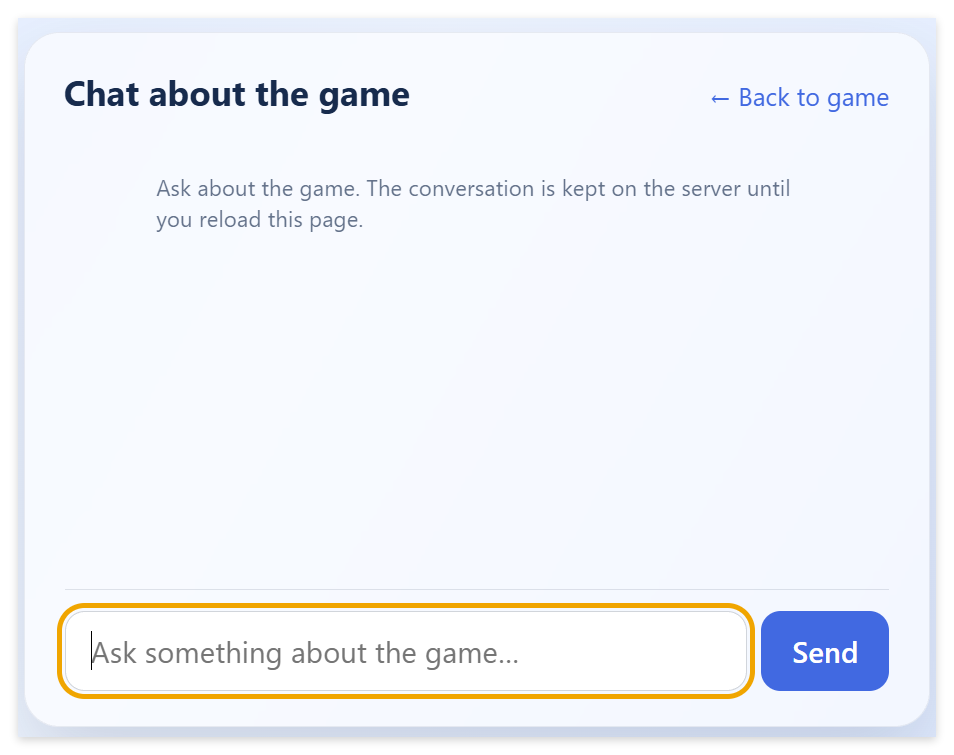
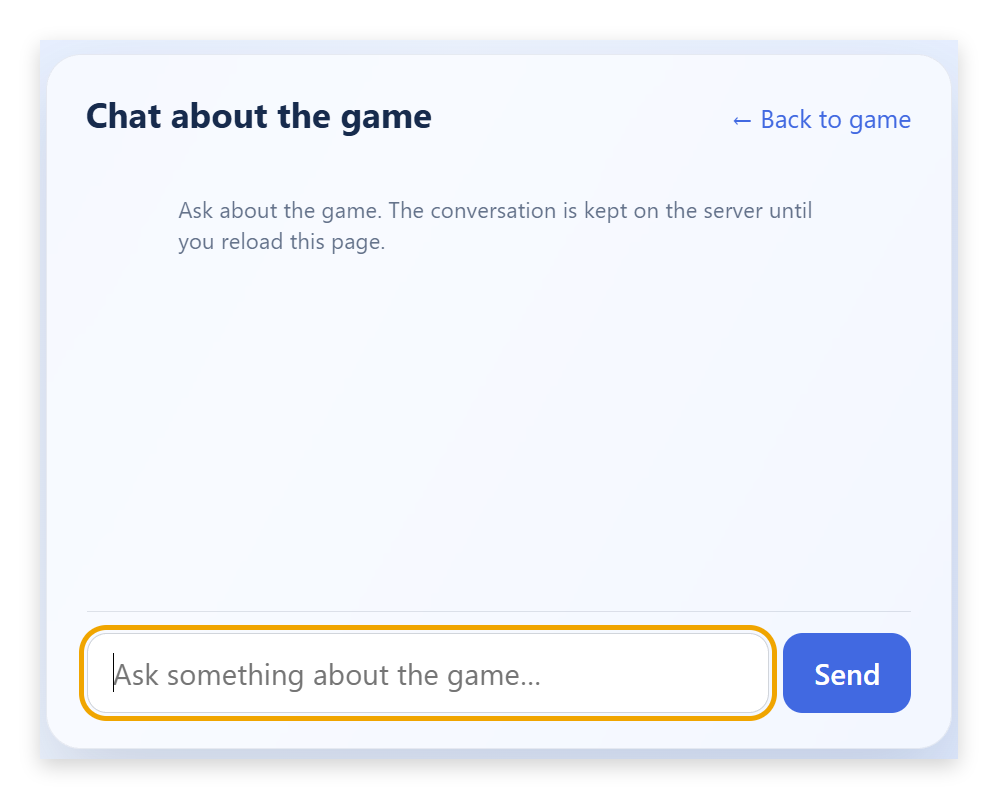
Float the game chat screenshot right at 300 pixels

Changed region(s): [[0.0, 0.0, 1.0, 1.0], [0.152, 0.2437, 0.8208, 0.3351], [0.0608, 0.0914, 0.456, 0.1828]]

diff --git a/09-add-an-ai-chat-to-your-game.md b/09-add-an-ai-chat-to-your-game.md
@@ -207,16 +207,14 @@ Your coding agent can help you decide whether either fits your application.
 
 ## Build a chat that explains your game to players
 
+<a href="assets/09-game-chat.png"><img src="assets/screenshots/09-game-chat.png" alt="An example in-game chat page with a question field, Send button and link back to the game" align="right" width="300"></a>
+
 The terminal script let you explore requests and conversation history. Your task
 now is to use those ideas to build an **in-game explanation chat**: a place in
 your browser game where players can ask how the game works. Someone playing for
 the first time might ask “What am I trying to achieve?” or “How do I move?” and
 then ask follow-up questions. The assistant should explain your game's rules,
 controls and objectives using the information you provide.
-
-Here is one example of the chat interface. Choose a layout that fits your game:
-
-<a href="assets/09-game-chat.png"><img src="assets/screenshots/09-game-chat.png" alt="An in-game chat page with a question field, Send button and link back to the game" width="665"></a>
 
 Build this feature together with your coding agent, adapting it to your own game.
 **A text chat with conversation history is enough. Vision and structured output
